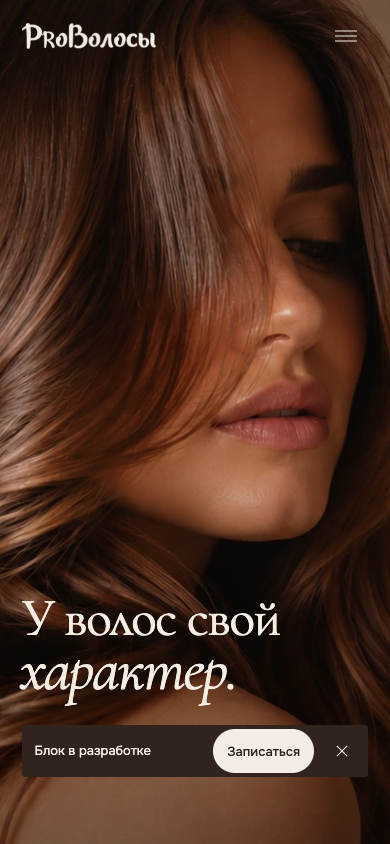
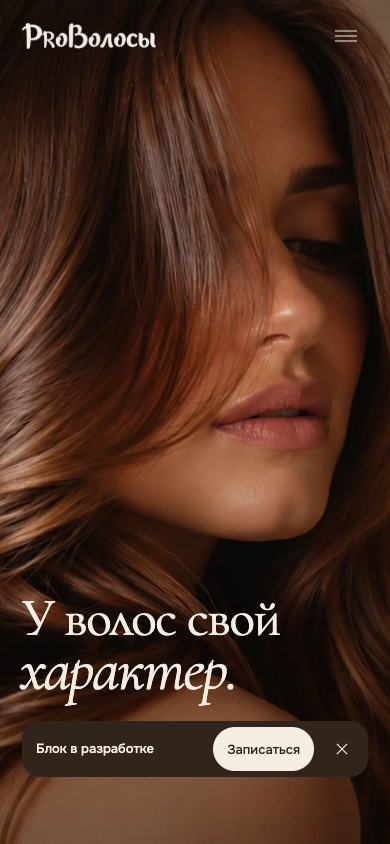
Round and refine the development notice

Changed region(s): [[0.0923, 0.8318, 0.8923, 0.9242], [0.9231, 0.8934, 0.9538, 0.9242], [0.0615, 0.8934, 0.0923, 0.9242]]

diff --git a/styles.css b/styles.css
@@ -501,9 +501,10 @@ body:has(.mobile-menu[open]) .site-header :is(.wordmark, .menu-toggle) {
   inline-size: max-content;
   max-inline-size: calc(100% - max(0.75rem, env(safe-area-inset-right)) - max(0.75rem, env(safe-area-inset-left)));
   margin: 0 auto;
-  padding: 0.5rem 0.5rem 0.5rem clamp(0.75rem, 4vw, 1.375rem);
+  padding: 0.375rem 0.375rem 0.375rem 1.125rem;
   border: 0;
-  border-radius: 3px;
+  border-radius: 1.125rem;
+  outline: none;
   background: var(--color-ink);
   color: var(--color-paper);
   align-items: center;
@@ -532,6 +533,7 @@ body:has(.mobile-menu[open]) .site-header :is(.wordmark, .menu-toggle) {
 .section-notice p {
   margin: 0;
   font-size: 0.8125rem;
+  font-weight: 500;
   line-height: 1.25;
 }
 
@@ -551,6 +553,7 @@ body:has(.mobile-menu[open]) .site-header :is(.wordmark, .menu-toggle) {
 .notice-close {
   --close-size: 0.875rem;
   flex: none;
+  border-radius: 50%;
 }
 
 @media (hover: hover) and (pointer: fine) {
@@ -686,7 +689,7 @@ body:has(.mobile-menu[open]) .site-header :is(.wordmark, .menu-toggle) {
     inline-size: auto;
     max-inline-size: 26rem;
     margin-inline: 0;
-    padding: 0.25rem 0.25rem 0.25rem clamp(0.625rem, 3.2vw, 1rem);
+    padding: 0.375rem 0.25rem 0.375rem clamp(0.75rem, 3.6vw, 1rem);
     gap: clamp(0.25rem, 1.5vw, 0.75rem);
   }
 

diff --git a/index.html b/index.html
@@ -74,9 +74,9 @@
       </div>
     </dialog>
 
-    <aside class="section-notice" id="section-notice" popover aria-labelledby="notice-label">
+    <aside class="section-notice" id="section-notice" popover tabindex="-1" autofocus aria-labelledby="notice-label">
       <p id="notice-label" role="status">Блок в разработке</p>
-      <a class="booking notice-booking" href="tel:+79964504847" aria-describedby="notice-label" autofocus>Записаться</a>
+      <a class="booking notice-booking" href="tel:+79964504847" aria-describedby="notice-label">Записаться</a>
       <button class="close-button notice-close" type="button" popovertarget="section-notice" popovertargetaction="hide" aria-label="Закрыть сообщение"></button>
     </aside>
 

diff --git a/site.js b/site.js
@@ -12,7 +12,7 @@ function openNotice(trigger) {
 
   noticeTrigger = trigger;
   notice.setAttribute('data-visible', '');
-  notice.querySelector('.notice-booking').focus({ preventScroll: true });
+  notice.focus({ preventScroll: true });
 }
 
 if (!hasNativeNotice) {
